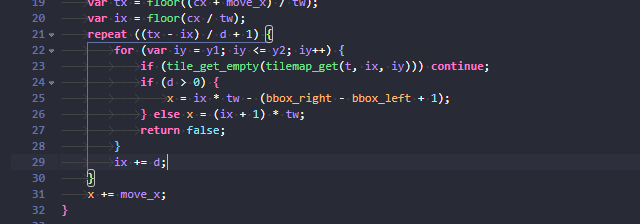
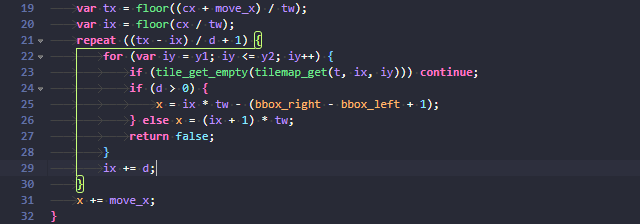
Add rainbow support

Changed region(s): [[0.0312, 0.0, 0.7812, 1.0]]

diff --git a/ext-bracket-match.js b/ext-bracket-match.js
@@ -37,6 +37,9 @@ function highlightBracketsHook() {
 		var start = iter.getCurrentTokenPosition();
 		start.column += tk.value.length - 1;
 		//
+		var mt = /\.(depth\d+)/.exec(tk.type);
+		var typeSuffix = mt ? " ace_" + mt[1] : "";
+		//
 		iter = new TokenIterator(session, cur.row, cur.column);
 		tk = iter.stepForward();
 		depth = 0;
@@ -61,23 +64,23 @@ function highlightBracketsHook() {
 			var range;
 			if (start.column > end.column) {
 				range = new Range(start.row, end.column, start.row, start.column);
-				hls.push(session.addMarker(range, "ace_bracket_bottom ace_bracket_line", "text"));
+				hls.push(session.addMarker(range, "ace_bracket_bottom ace_bracket_line"+typeSuffix, "text"));
 			} else if (start.column < end.column) {
 				range = new Range(start.row, start.column, start.row, end.column);
-				hls.push(session.addMarker(range, "ace_bracket_bottom ace_bracket_line", "text"));
+				hls.push(session.addMarker(range, "ace_bracket_bottom ace_bracket_line"+typeSuffix, "text"));
 			}
 			//
 			for (var i = leftRowTop; i <= leftRowBot; i++) {
 				range = new Range(i, leftCol, i, leftCol + 1);
-				hls.push(session.addMarker(range, "ace_bracket_left ace_bracket_line", "text", true));
+				hls.push(session.addMarker(range, "ace_bracket_left ace_bracket_line"+typeSuffix, "text", true));
 			}
 		} else if (start.column == end.column - 1) {
-			hls.push(session.addMarker(rangeFromPos(start, 2), "ace_bracket", "text"));
+			hls.push(session.addMarker(rangeFromPos(start, 2), "ace_bracket"+typeSuffix, "text"));
 			return;
 		}
 		//
-		hls.push(session.addMarker(rangeFromPos(start), "ace_bracket", "text"));
-		hls.push(session.addMarker(rangeFromPos(end), "ace_bracket", "text"));
+		hls.push(session.addMarker(rangeFromPos(start), "ace_bracket"+typeSuffix, "text"));
+		hls.push(session.addMarker(rangeFromPos(end), "ace_bracket"+typeSuffix, "text"));
 	}, 50);
 }
 function patchEditor(editor) {

diff --git a/README.md b/README.md
@@ -1,6 +1,20 @@
 # ext-bracket-match
 This extension overrides bracket highlighting behaviour with something resembling [VSCode's indent guide highlighting](https://code.visualstudio.com/updates/v1_23#_highlighted-indent-guides).
 
-This may slightly increase the CPU load for cursor navigation in large files.
+This may slightly increase the CPU load for cursor navigation in very large files.
 
 ![screenshot](./ext-bracket-match.png)
+
+If your theme implements rainbow brackets, you can do that too, like so:
+```css
+/* curly brackets */
+#main .ace-tm .ace_curly.ace_paren.ace_depth1 {
+	color: #C6FF79;
+}
+
+/* bracket match rectangles and lines */
+#main .ace-tm .ace_marker-layer .ace_bracket.ace_depth1,
+#main .ace-tm .ace_marker-layer .ace_bracket_line.ace_depth1 {
+	border-color: #C6FF79;
+}
+```
